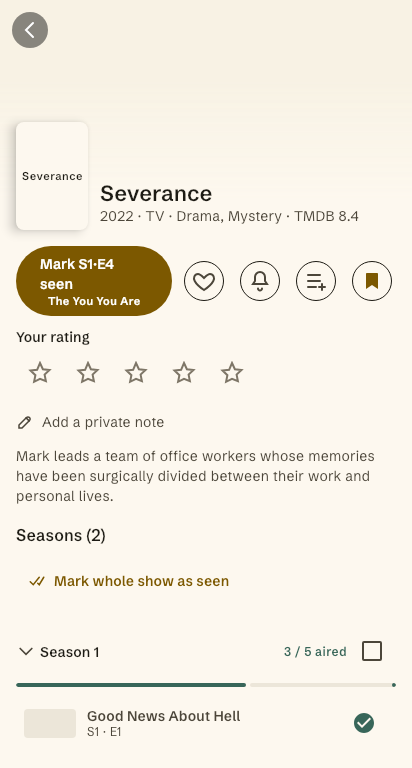
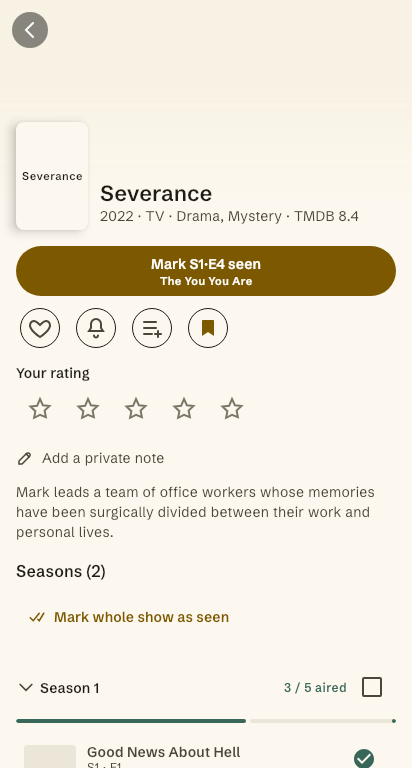
fix(detail): the primary button keeps its own row; episode codes are localized
The pill sits on a row of its own at every width. Beside four icons its
label wrapped, and a Spanish or large-font label would wrap worse. The
episode codes in the button, its spoken description and the undo message
are localized resources, as Progress's already are, with T for temporada
in Spanish.

Covers an undo of a removal against real SQLite: favorite, rating, note,
add date and stored counts survive a remove and a restore, and a restore
of a title that is not removed changes nothing.

Refs #721

diff --git a/feature/search/ui/src/commonMain/kotlin/com/codingpit/muviss/feature/search/ui/DetailScreen.kt b/feature/search/ui/src/commonMain/kotlin/com/codingpit/muviss/feature/search/ui/DetailScreen.kt
@@ -402,7 +402,7 @@ private fun DetailExpanded(
                                 modifier = Modifier.fillMaxWidth().aspectRatio(2f / 3f).clip(MaterialTheme.shapes.medium),
                             )
                         }
-                        ActionRow(state, viewModel, callbacks, stacked = true)
+                        ActionRow(state, viewModel, callbacks)
                     }
                     Column(
                         Modifier.weight(1f).padding(top = 64.dp).widthIn(max = 640.dp),
@@ -572,14 +572,13 @@ private fun MetadataLine(details: MediaDetails) {
 /**
  * Primary actions: amber add-to-library pill + round outlined icon buttons
  * for favorite / notification mute / add-to-list (replaces the old emoji
- * text buttons). [stacked] lays the pill above the icons (expanded left rail).
+ * text buttons). The pill sits above the icons at every width.
  */
 @Composable
 private fun ActionRow(
     state: DetailUiState,
     viewModel: DetailViewModel,
     callbacks: DetailCallbacks,
-    stacked: Boolean = false,
 ) {
     val pill: @Composable () -> Unit = {
         PrimaryActionButton(
@@ -587,8 +586,8 @@ private fun ActionRow(
             onAdd = viewModel::toggleSaved,
             onMarkMovieWatched = viewModel::markMovieWatched,
             onWatchedAgain = { state.details?.let { callbacks.onTapSeenEpisode(EpisodeId.forMovie(it.id)) } },
-            onTickNext = { episode -> viewModel.tickNext(episode.id, episodeCode(episode)) },
-            modifier = if (stacked) Modifier.fillMaxWidth() else Modifier,
+            onTickNext = { episode -> viewModel.tickNext(episode.id) },
+            modifier = Modifier.fillMaxWidth(),
         )
     }
     val icons: @Composable () -> Unit = {
@@ -628,19 +627,10 @@ private fun ActionRow(
             }
         }
     }
-    if (stacked) {
-        Column(verticalArrangement = Arrangement.spacedBy(MuvissSpacing.s)) {
-            pill()
-            icons()
-        }
-    } else {
-        Row(
-            horizontalArrangement = Arrangement.spacedBy(MuvissSpacing.s),
-            verticalAlignment = Alignment.CenterVertically,
-        ) {
-            Box(Modifier.weight(1f)) { pill() }
-            icons()
-        }
+    // The pill keeps a row to itself at every width: beside four icons its label wraps, and a translation makes it worse.
+    Column(verticalArrangement = Arrangement.spacedBy(MuvissSpacing.s)) {
+        pill()
+        icons()
     }
 }
 
@@ -668,7 +658,7 @@ internal fun PrimaryActionButton(
         )
 
         is PrimaryAction.TickNext -> PrimaryLook(
-            label = stringResource(Res.string.primary_mark_next, episodeCode(action.episode)),
+            label = stringResource(Res.string.primary_mark_next, action.episode.seasonNumber, action.episode.episodeNumber),
             subtitle = action.episode.name.takeIf { it.isNotBlank() },
             description = stringResource(Res.string.primary_mark_next_a11y, action.episode.seasonNumber, action.episode.episodeNumber),
             onClick = { onTickNext(action.episode) },
@@ -715,7 +705,7 @@ private fun waitingLook(action: PrimaryAction.Waiting): PrimaryLook {
 
         PrimaryAction.Waiting.Reason.CaughtUp -> PrimaryLook(
             label = stringResource(Res.string.primary_caught_up),
-            subtitle = next?.let { stringResource(Res.string.primary_next_up, episodeCode(it), dateText(it.airDateEpochDay ?: 0L)) },
+            subtitle = next?.let { stringResource(Res.string.primary_next_up, it.seasonNumber, it.episodeNumber, dateText(it.airDateEpochDay ?: 0L)) },
             enabled = false,
             onClick = {},
         )
@@ -724,11 +714,6 @@ private fun waitingLook(action: PrimaryAction.Waiting): PrimaryLook {
 
 /** Test tag of the primary action (#721). */
 internal const val PRIMARY_ACTION_TAG = "detailPrimaryAction"
-
-/** "S2·E3": the short code an episode is shown as on Detail. */
-internal fun episodeCode(episode: Episode): String = episodeCode(episode.seasonNumber, episode.episodeNumber)
-
-internal fun episodeCode(season: Int, episode: Int): String = "S$season·E$episode"
 
 /** "More like this" row (EPIC 16): recommendations, or similar titles as fallback. Hidden when empty. */
 @Composable

diff --git a/feature/collection/data/src/jvmTest/kotlin/com/codingpit/muviss/feature/collection/data/CollectionRestoreTest.kt b/feature/collection/data/src/jvmTest/kotlin/com/codingpit/muviss/feature/collection/data/CollectionRestoreTest.kt
@@ -1,0 +1,80 @@
+package com.codingpit.muviss.feature.collection.data
+
+import com.codingpit.muviss.core.common.AppDispatchers
+import com.codingpit.muviss.core.common.epochMsAtStartOfDay
+import com.codingpit.muviss.core.database.MuvissDatabase
+import com.codingpit.muviss.core.testing.FakeClock
+import com.codingpit.muviss.core.testing.inMemoryDatabase
+import com.codingpit.muviss.models.Episode
+import com.codingpit.muviss.models.EpisodeId
+import com.codingpit.muviss.models.MediaDetails
+import com.codingpit.muviss.models.MediaId
+import com.codingpit.muviss.models.MediaSummary
+import com.codingpit.muviss.models.ProductionStatus
+import com.codingpit.muviss.models.Season
+import kotlinx.coroutines.CoroutineDispatcher
+import kotlinx.coroutines.test.UnconfinedTestDispatcher
+import kotlinx.coroutines.test.runTest
+import kotlin.test.BeforeTest
+import kotlin.test.Test
+import kotlin.test.assertEquals
+import kotlin.test.assertFalse
+import kotlin.test.assertTrue
+
+/**
+ * Undoing a removal (#721) against real SQLite: the entry comes back with what the person said about it and the
+ * counts it had, not rebuilt from the details on screen. A plain re-add would reset the user's fields.
+ */
+class CollectionRestoreTest {
+
+    private lateinit var db: MuvissDatabase
+    private lateinit var repository: SqlDelightCollectionRepository
+    private val show = MediaId.tmdbTv("1399")
+    private val seasons = listOf(
+        Season(1, "S1", listOf(Episode(EpisodeId(show, 1, 1), 1, 1, "Pilot", airDateEpochDay = 100L))),
+    )
+
+    @BeforeTest
+    fun setUp() {
+        db = inMemoryDatabase()
+        repository = SqlDelightCollectionRepository(db.collectionEntryQueries, RestoreTestDispatchers(UnconfinedTestDispatcher()), FakeClock(epochMsAtStartOfDay(150)))
+    }
+
+    @Test
+    fun removing_then_restoring_keeps_the_favorite_rating_note_add_date_and_stored_counts() = runTest {
+        repository.upsertSnapshot(MediaDetails(MediaSummary(show, "Show"), productionStatus = ProductionStatus.RETURNING, seasons = seasons))
+        repository.setFavorite(show, true)
+        repository.setRating(show, 8)
+        repository.setNote(show, "keep this")
+        val before = db.collectionEntryQueries.selectById(show.toString()).executeAsOne()
+
+        repository.remove(show)
+        assertTrue(db.collectionEntryQueries.selectById(show.toString()).executeAsOne().deleted)
+        repository.restore(show)
+
+        val after = db.collectionEntryQueries.selectById(show.toString()).executeAsOne()
+        assertFalse(after.deleted)
+        assertTrue(after.isDirty, "a restore is a user action, so it syncs")
+        assertTrue(after.favorite)
+        assertEquals(8L, after.rating)
+        assertEquals("keep this", after.note)
+        assertEquals(before.addedAtEpochMs, after.addedAtEpochMs)
+        assertEquals(before.airedEpisodes, after.airedEpisodes)
+        assertEquals(before.totalEpisodes, after.totalEpisodes)
+    }
+
+    @Test
+    fun restoring_a_title_that_is_not_removed_changes_nothing() = runTest {
+        repository.upsertSnapshot(MediaDetails(MediaSummary(show, "Show"), productionStatus = ProductionStatus.RETURNING, seasons = seasons))
+        val before = db.collectionEntryQueries.selectById(show.toString()).executeAsOne()
+
+        repository.restore(show)
+
+        assertEquals(before, db.collectionEntryQueries.selectById(show.toString()).executeAsOne())
+    }
+}
+
+private class RestoreTestDispatchers(d: CoroutineDispatcher) : AppDispatchers {
+    override val default = d
+    override val io = d
+}

diff --git a/feature/search/ui/src/commonMain/kotlin/com/codingpit/muviss/feature/search/ui/DetailViewModel.kt b/feature/search/ui/src/commonMain/kotlin/com/codingpit/muviss/feature/search/ui/DetailViewModel.kt
@@ -390,7 +390,7 @@ class DetailViewModel(
      * The primary action's tick for a show (#721): ticks [episode], the next aired one, and offers an Undo.
      * It adds the title first when it is not saved, so the Undo can take that entry back again.
      */
-    fun tickNext(episode: EpisodeId, label: String) {
+    fun tickNext(episode: EpisodeId) {
         val current = _state.value
         val details = current.details
         val caughtUp = details
@@ -400,7 +400,7 @@ class DetailViewModel(
             val created = addIfAbsent()
             progressApi.tickEpisode(episode, true)
             if (caughtUp != null) _state.update { it.copy(celebration = Celebration(caughtUp, ++celebrations)) }
-            offerUndo(listOf(episode), UiText.Resource(Res.string.tick_next_seen, label), createdEntry = created)
+            offerUndo(listOf(episode), UiText.Resource(Res.string.tick_next_seen, episode.seasonNumber, episode.episodeNumber), createdEntry = created)
         }
     }
 

diff --git a/feature/search/ui/src/commonTest/kotlin/com/codingpit/muviss/feature/search/ui/DetailViewModelTest.kt b/feature/search/ui/src/commonTest/kotlin/com/codingpit/muviss/feature/search/ui/DetailViewModelTest.kt
@@ -973,7 +973,7 @@ class DetailViewModelTest {
         val progress = FakeProgressApi()
         val vm = viewModel(collectionApi = collection, progressApi = progress, detailsToLoad = tvDetails, id = show)
 
-        vm.tickNext(episode1.id, "S1·E1")
+        vm.tickNext(episode1.id)
 
         assertEquals(listOf(show), collection.added)
         assertEquals(setOf(episode1.id), progress.seenIds)
